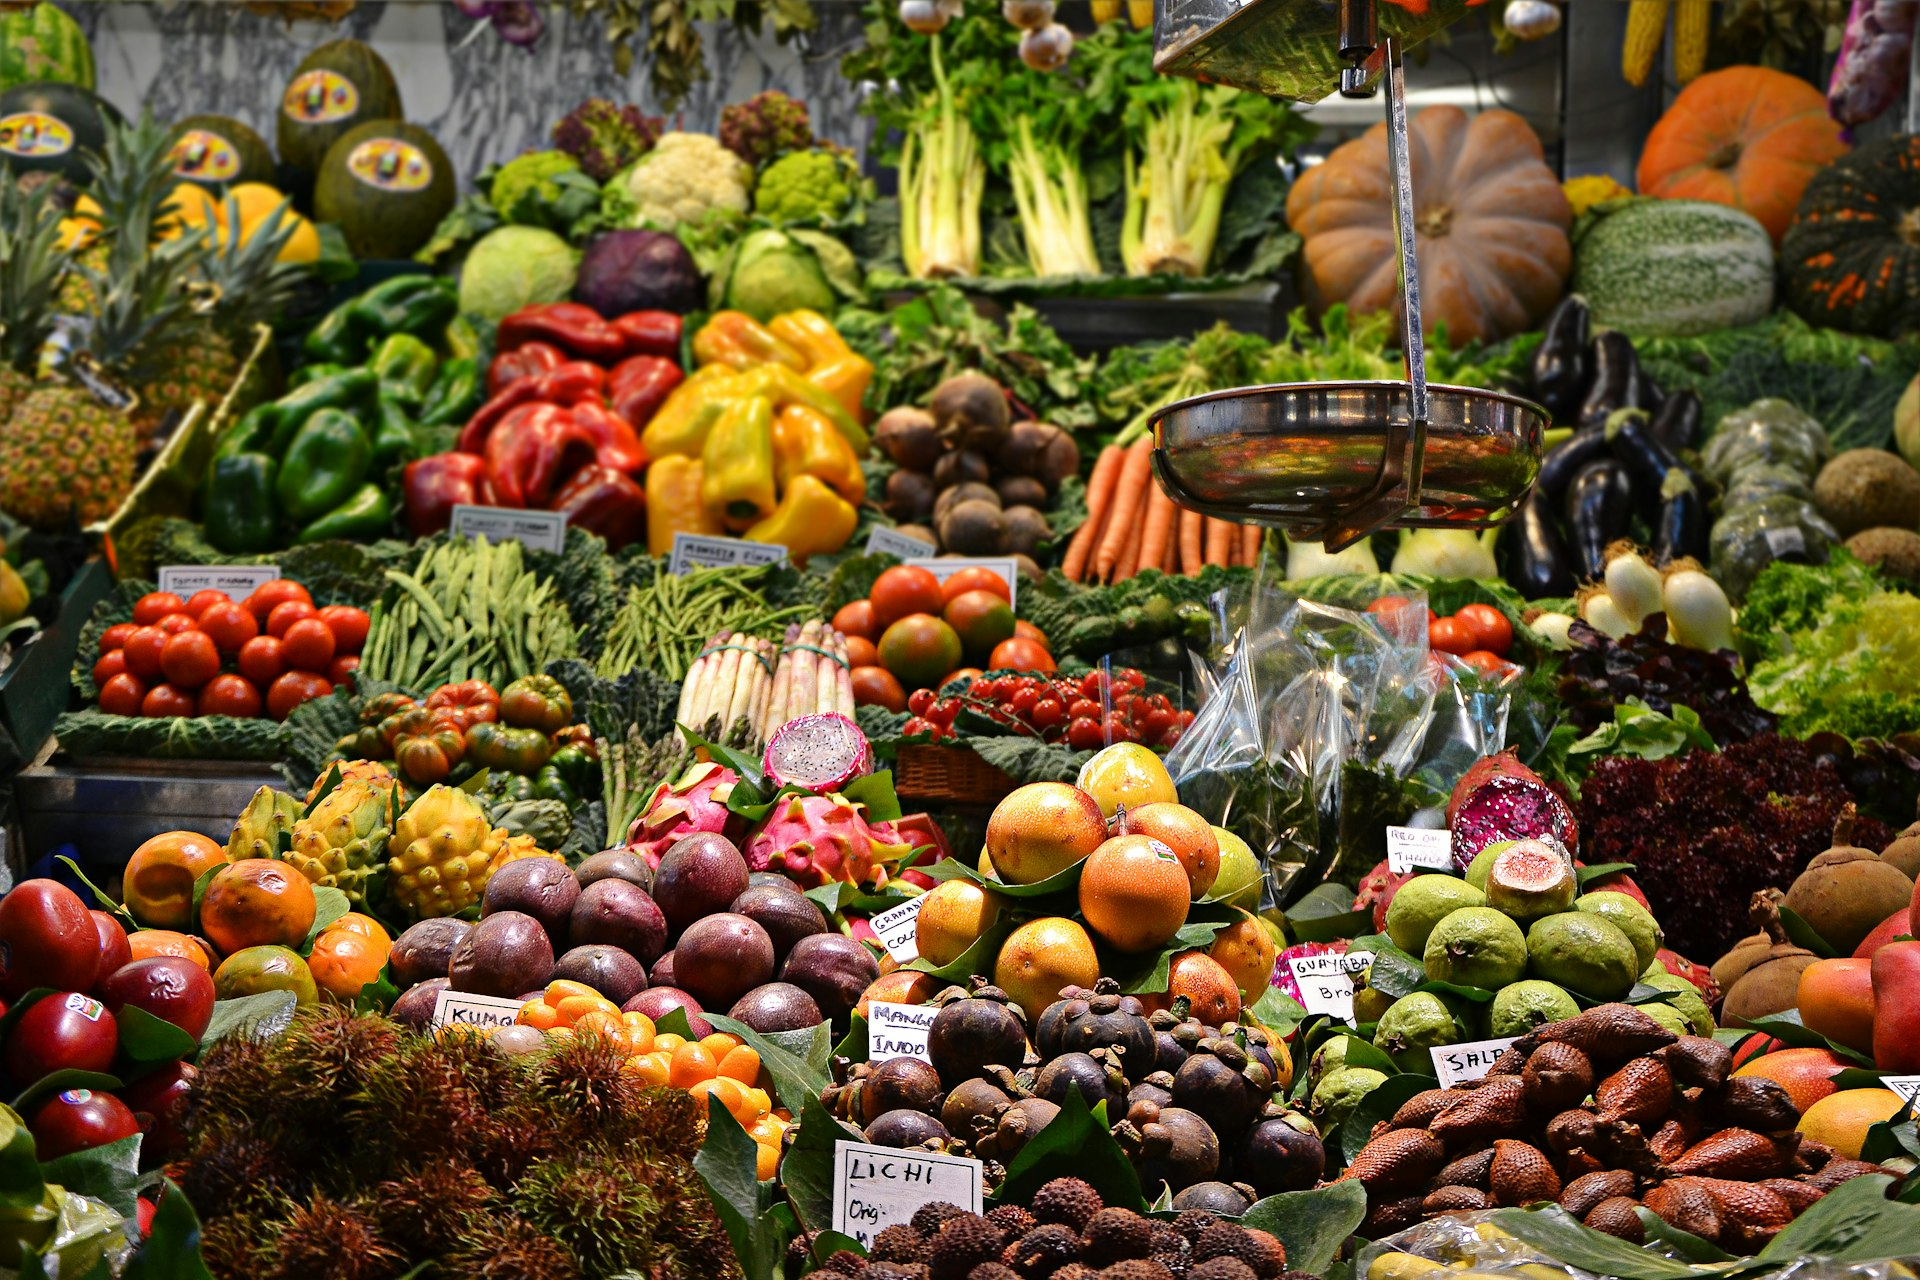
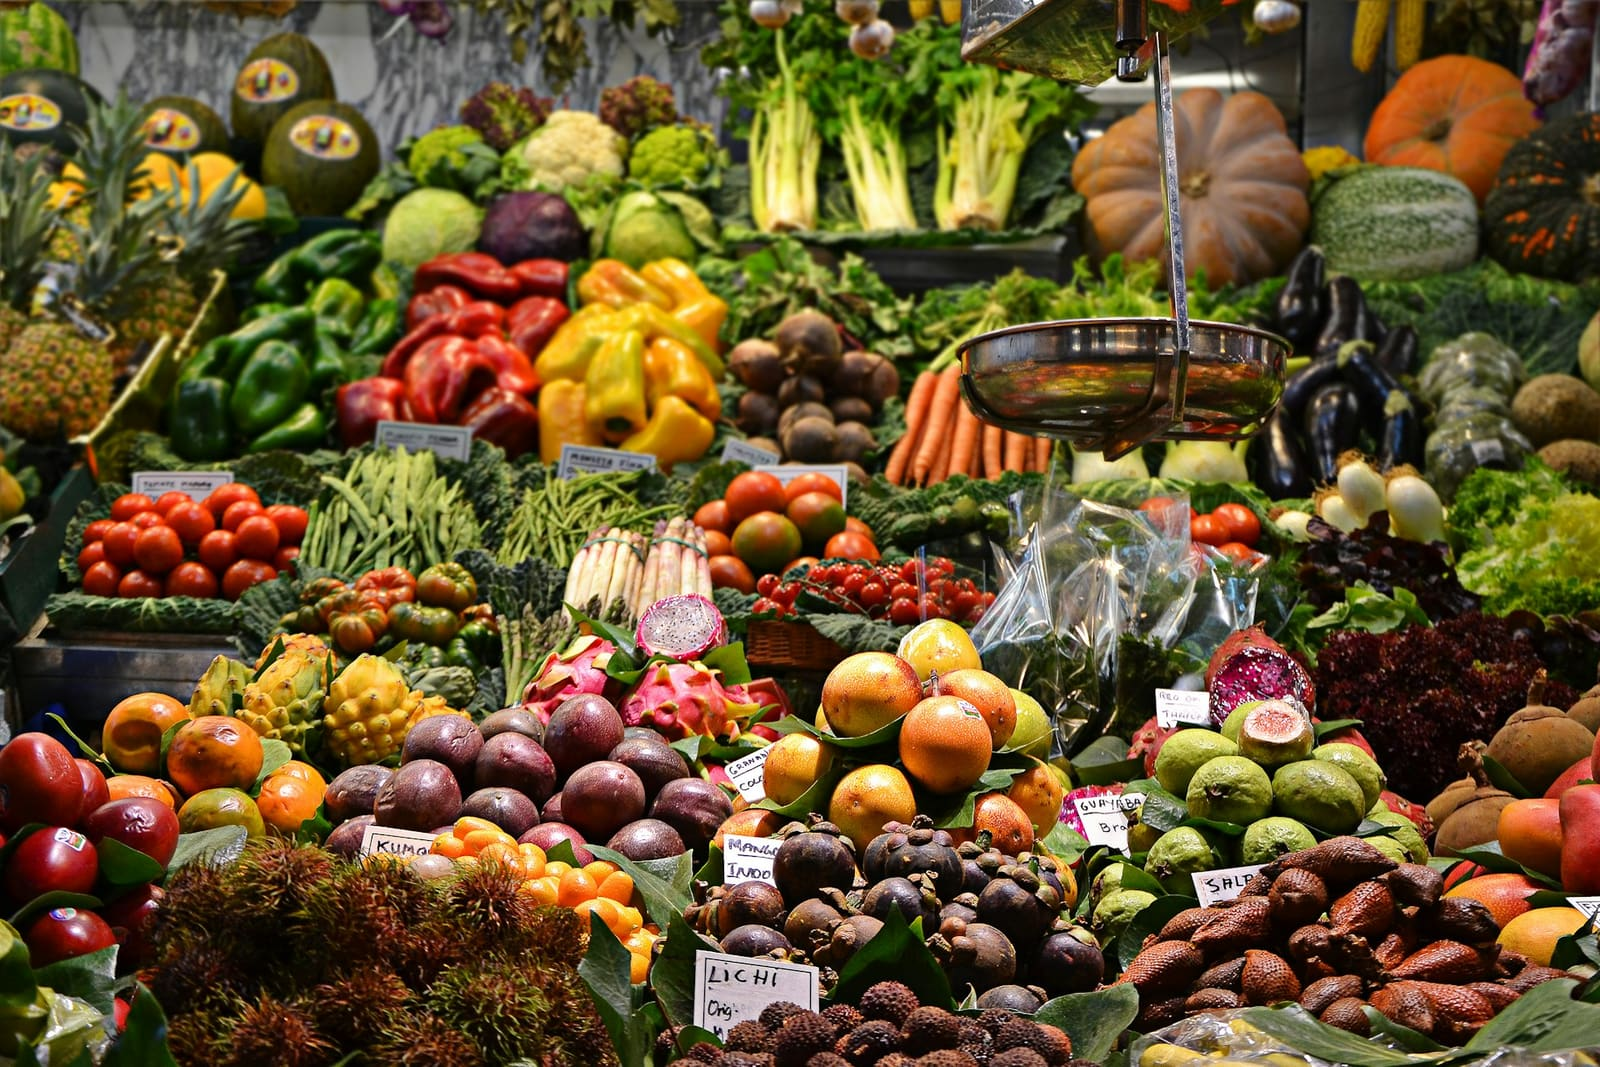
perf(images): hero.jpg 627→322KB + blurDataURL anti-flash mobile
- hero.jpg recompressé via sharp mozjpeg q=78 + resize 1600px (le viewport
  desktop est rarement plus large, et Next/Image fait le resize dynamique
  pour les écrans plus petits)
- legumes.jpg idem 282→195KB
- HeroSection: ajout sizes="100vw" + placeholder="blur" inline 12px
  pour éviter le flash blanc pendant le LCP sur mobile 4G

diff --git a/components/HeroSection.tsx b/components/HeroSection.tsx
@@ -2,6 +2,11 @@ import Image from 'next/image';
 import Link from 'next/link';
 import { Truck, Sparkles } from 'lucide-react';
 
+// Blur low-res 12px généré à partir de hero.jpg via sharp. Évite le flash
+// blanc/gris pendant le chargement LCP sur mobile 4G.
+const HERO_BLUR =
[1 lines of base64/hex data omitted]
+
 export default function HeroSection() {
   return (
     <div className="relative w-full h-[70vh] min-h-[480px] flex items-center justify-center">
@@ -12,6 +17,9 @@ export default function HeroSection() {
         fill
         style={{ objectFit: 'cover' }}
         priority
+        sizes="100vw"
+        placeholder="blur"
+        blurDataURL={HERO_BLUR}
       />
 
       {/* Overlay */}